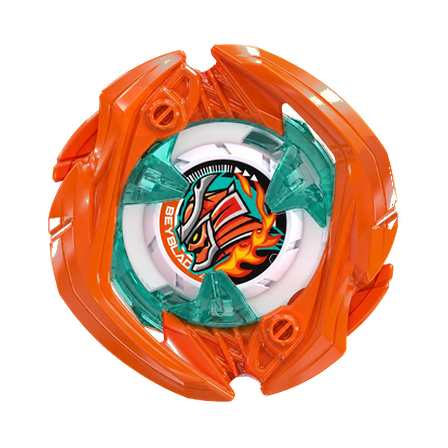
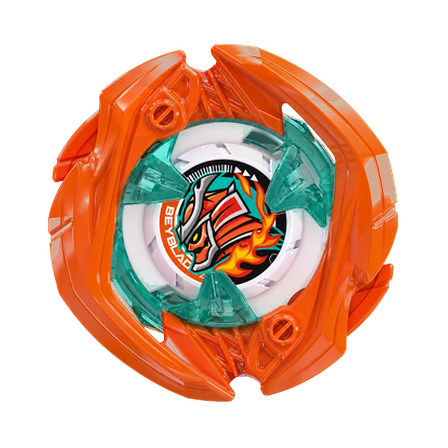
Balance UX-00 Warrior Saber highlights

diff --git a/index.html b/index.html
@@ -484,14 +484,14 @@
         "#app/services": "./src/app-services.js?v=20260714-scroll-affordance-overlay",
         "#app/markup-core": "./src/markup-core.js?v=20260714-scroll-affordance-overlay",
         "#app/anime-core": "./src/anime-core.js?v=20260720-burst-airdate-notes",
-        "#app/data-store": "./src/data-store.js?v=20260813-x-warrior-saber-highlight-shape-fix",
+        "#app/data-store": "./src/data-store.js?v=20260813-x-warrior-saber-full-highlight-balance",
         "#app/search-data-decoder": "./src/search-data-decoder.js?v=20260720-burst-airdate-notes",
         "#app/ui-core": "./src/ui-core.js?v=20260731-mobile-highlight-fix",
         "#app/release-core": "./src/release-core.js?v=20260731-mobile-highlight-fix",
         "#app/scroll-affordance": "./src/scroll-affordance.js?v=20260719-dropdown-shadow-mounted-label",
         "#app/search-core": "./src/search-core.js?v=20260717-dead-code-cleanup",
         "#app/search-engine": "./src/search-engine.js?v=20260731-mobile-highlight-fix",
-        "#app/catalog-model": "./src/catalog-model.js?v=20260813-x-warrior-saber-highlight-shape-fix",
+        "#app/catalog-model": "./src/catalog-model.js?v=20260813-x-warrior-saber-full-highlight-balance",
         "#app/collection-view": "./src/collection-view.js?v=20260731-mobile-highlight-fix",
         "#app/catalog-view": "./src/catalog-view.js?v=20260717-dead-code-cleanup",
         "#app/route-parser": "./src/route-parser.js?v=20260714-scroll-affordance-overlay",
@@ -500,7 +500,7 @@
         "#app/search-controller": "./src/search-controller.js?v=20260714-scroll-affordance-overlay",
         "#app/search-help-controller": "./src/search-help-controller.js?v=20260717-dead-code-cleanup",
         "#app/detail-view": "./src/detail-view.js?v=20260803-modal-tag-wheel-edge",
-        "#app/image-preview": "./src/image-preview.js?v=20260813-x-warrior-saber-highlight-shape-fix",
+        "#app/image-preview": "./src/image-preview.js?v=20260813-x-warrior-saber-full-highlight-balance",
         "#app/modal-context": "./src/modal-context.js?v=20260714-scroll-affordance-overlay",
         "#app/style-loader": "./src/style-loader.js?v=20260804-mobile-modal-scrollbar-centering",
         "#app/feature-loaders": "./src/feature-loaders.js?v=20260717-dead-code-cleanup",

diff --git a/src/data-store.js b/src/data-store.js
@@ -8,7 +8,7 @@ const bookItems = [];
 const gameItems = [];
 const animeInfo = { title: "", overview: [], characters: [], episodes: [] };
 const searchIndexItems = [];
-const X_ASSET_CACHE_VERSION = "20260813-x-warrior-saber-highlight-shape-fix";
+const X_ASSET_CACHE_VERSION = "20260813-x-warrior-saber-full-highlight-balance";
 
 const versionAssetUrl = source => {
   const value = String(source || "");

diff --git a/scripts/normalize-x-bey-front-images.py b/scripts/normalize-x-bey-front-images.py
@@ -16,7 +16,7 @@ from PIL import Image
 
 CONFIG_PATH = Path("data/source/x-bey-primary-images.json")
 ANGLE_CONFIG_PATH = Path("data/source/x-bey-angle-corrections.json")
-CONFIG_VERSION = "20260813-x-warrior-saber-highlight-shape-fix"
+CONFIG_VERSION = "20260813-x-warrior-saber-full-highlight-balance"
 CANVAS_SIZE = 448
 TARGET_FOREGROUND_SIZE = 360
 ALPHA_THRESHOLD = 3

diff --git a/scripts/record-x-image-alpha-review.py b/scripts/record-x-image-alpha-review.py
@@ -14,7 +14,7 @@ from PIL import Image
 CANVAS_SIZE = 448
 MIN_MARGIN = 6
 MAX_FOREGROUND_SIZE = CANVAS_SIZE - MIN_MARGIN * 2
-REVIEW_VERSION = "20260813-x-warrior-saber-highlight-shape-fix"
+REVIEW_VERSION = "20260813-x-warrior-saber-full-highlight-balance"
 
 
 def parse_args() -> argparse.Namespace:

diff --git a/scripts/build-x-bey-angle-corrections.py b/scripts/build-x-bey-angle-corrections.py
@@ -115,7 +115,7 @@ SUPPLIED_FRONT_IDS = {
     "BEY-X-UX-19-BULLET-GRIFFON-H",
     "BEY-X-UX-20-GLORY-VALKYRIE-LF",
 }
-CONFIG_VERSION = "20260813-x-warrior-saber-highlight-shape-fix"
+CONFIG_VERSION = "20260813-x-warrior-saber-full-highlight-balance"
 
 
 def parse_args() -> argparse.Namespace:
